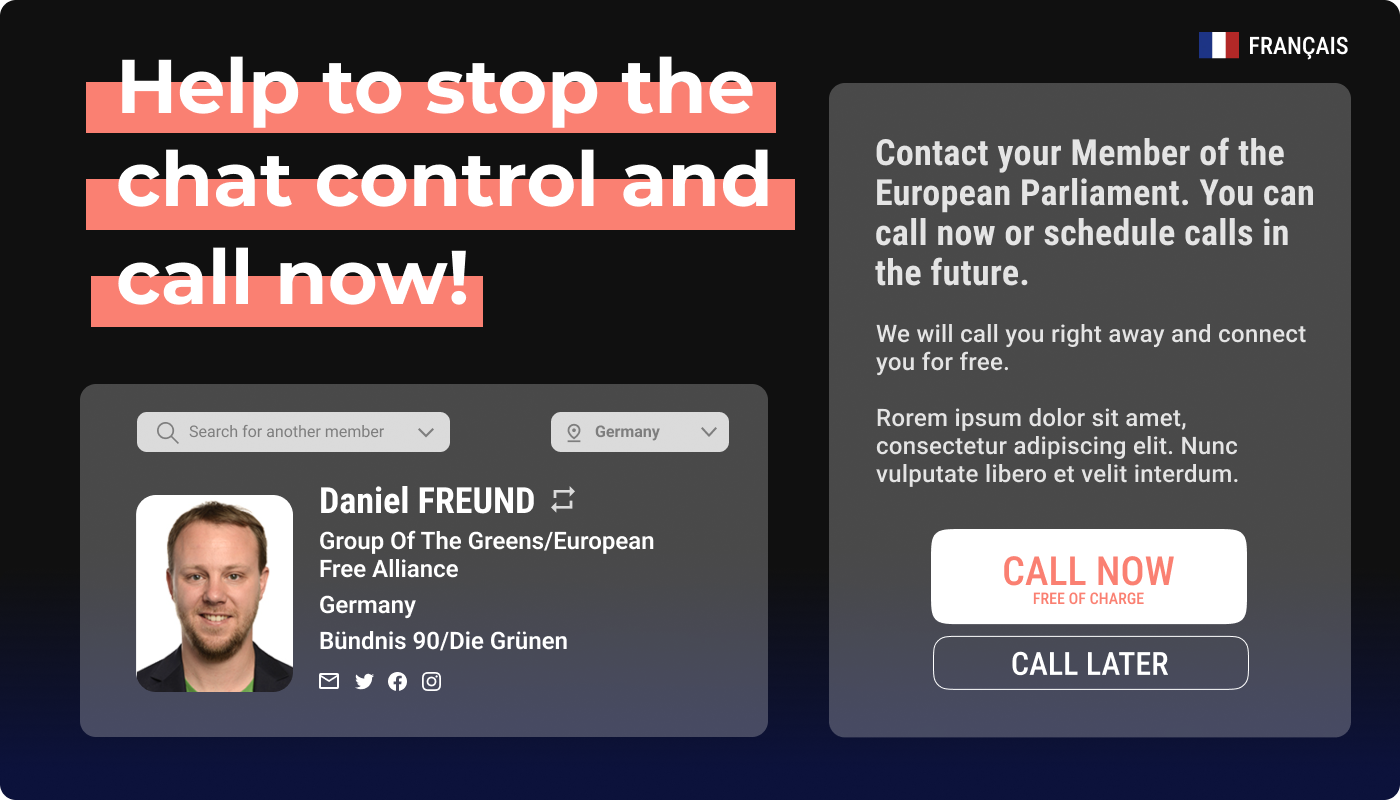
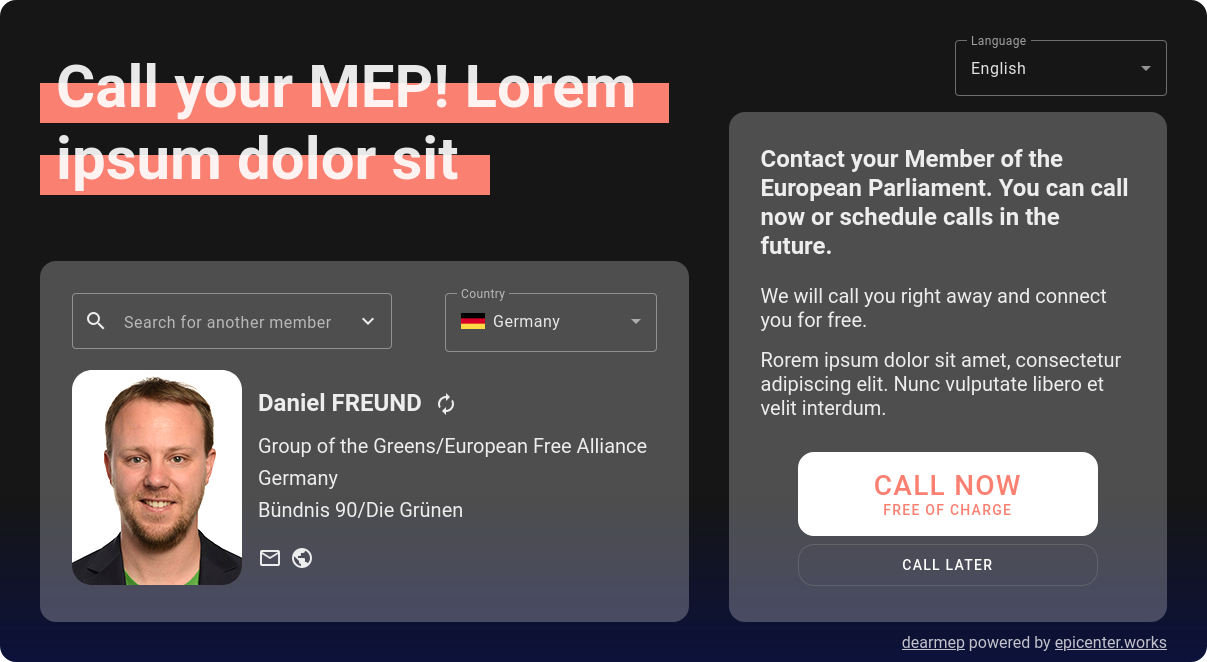
change screens

diff --git a/content/_index.md b/content/_index.md
@@ -50,7 +50,7 @@ Citizens can call once or schedule daily or weekly calls. E-mail or social media
 {{< bs-frame color="secondary" >}}
   {{< bs-row cols="1 md-2" >}}
     {{< bs-col order="md-2" >}}
-      {{< img src="screen-1.png" >}}
+      {{< img src="screen-2.png" >}}
     {{< /bs-col >}}
     {{% bs-col order="md-1" %}}
 The DearMEP tool is reusable for other campaigns in the European Parliament. After Chat Control (Regulation to prevent and combat child sexual abuse online 2022/0155 (COD)) will have been concluded, this tool will be released as free software. NGOs can use it with minimum effort to run their own campaigns. We believe access to the Parliament and to decision makers should be equally available to all people in a democracy. The tools are therefore designed and built to also allow for reuse in other contexts (national parliaments, governments, other assemblies, etc.) with only slight adaptions. The cost of phone calls have to be covered by whoever operates the tool, but these costs are scalable, since they are proportionate to the amount of users actively engaging in the campaign. As this is free software, we do not charge for operating this tool. There is no license fee and we haven’t received any grant or corporate money for developing it either.
@@ -63,7 +63,7 @@ The DearMEP tool is reusable for other campaigns in the European Parliament. Aft
 {{< bs-frame >}}
   {{< bs-row cols="1 md-2" >}}
     {{< bs-col >}}
-      {{< img src="screen-1.png" >}}
+      {{< img src="screen-3.png" >}}
     {{< /bs-col >}}
     {{% bs-col %}}
 As a European data protection NGO we take privacy very seriously. We tried to reduce the processing of personal information to a minimum and therefore follow privacy-by-design and privacy-by-default wherever possible.
